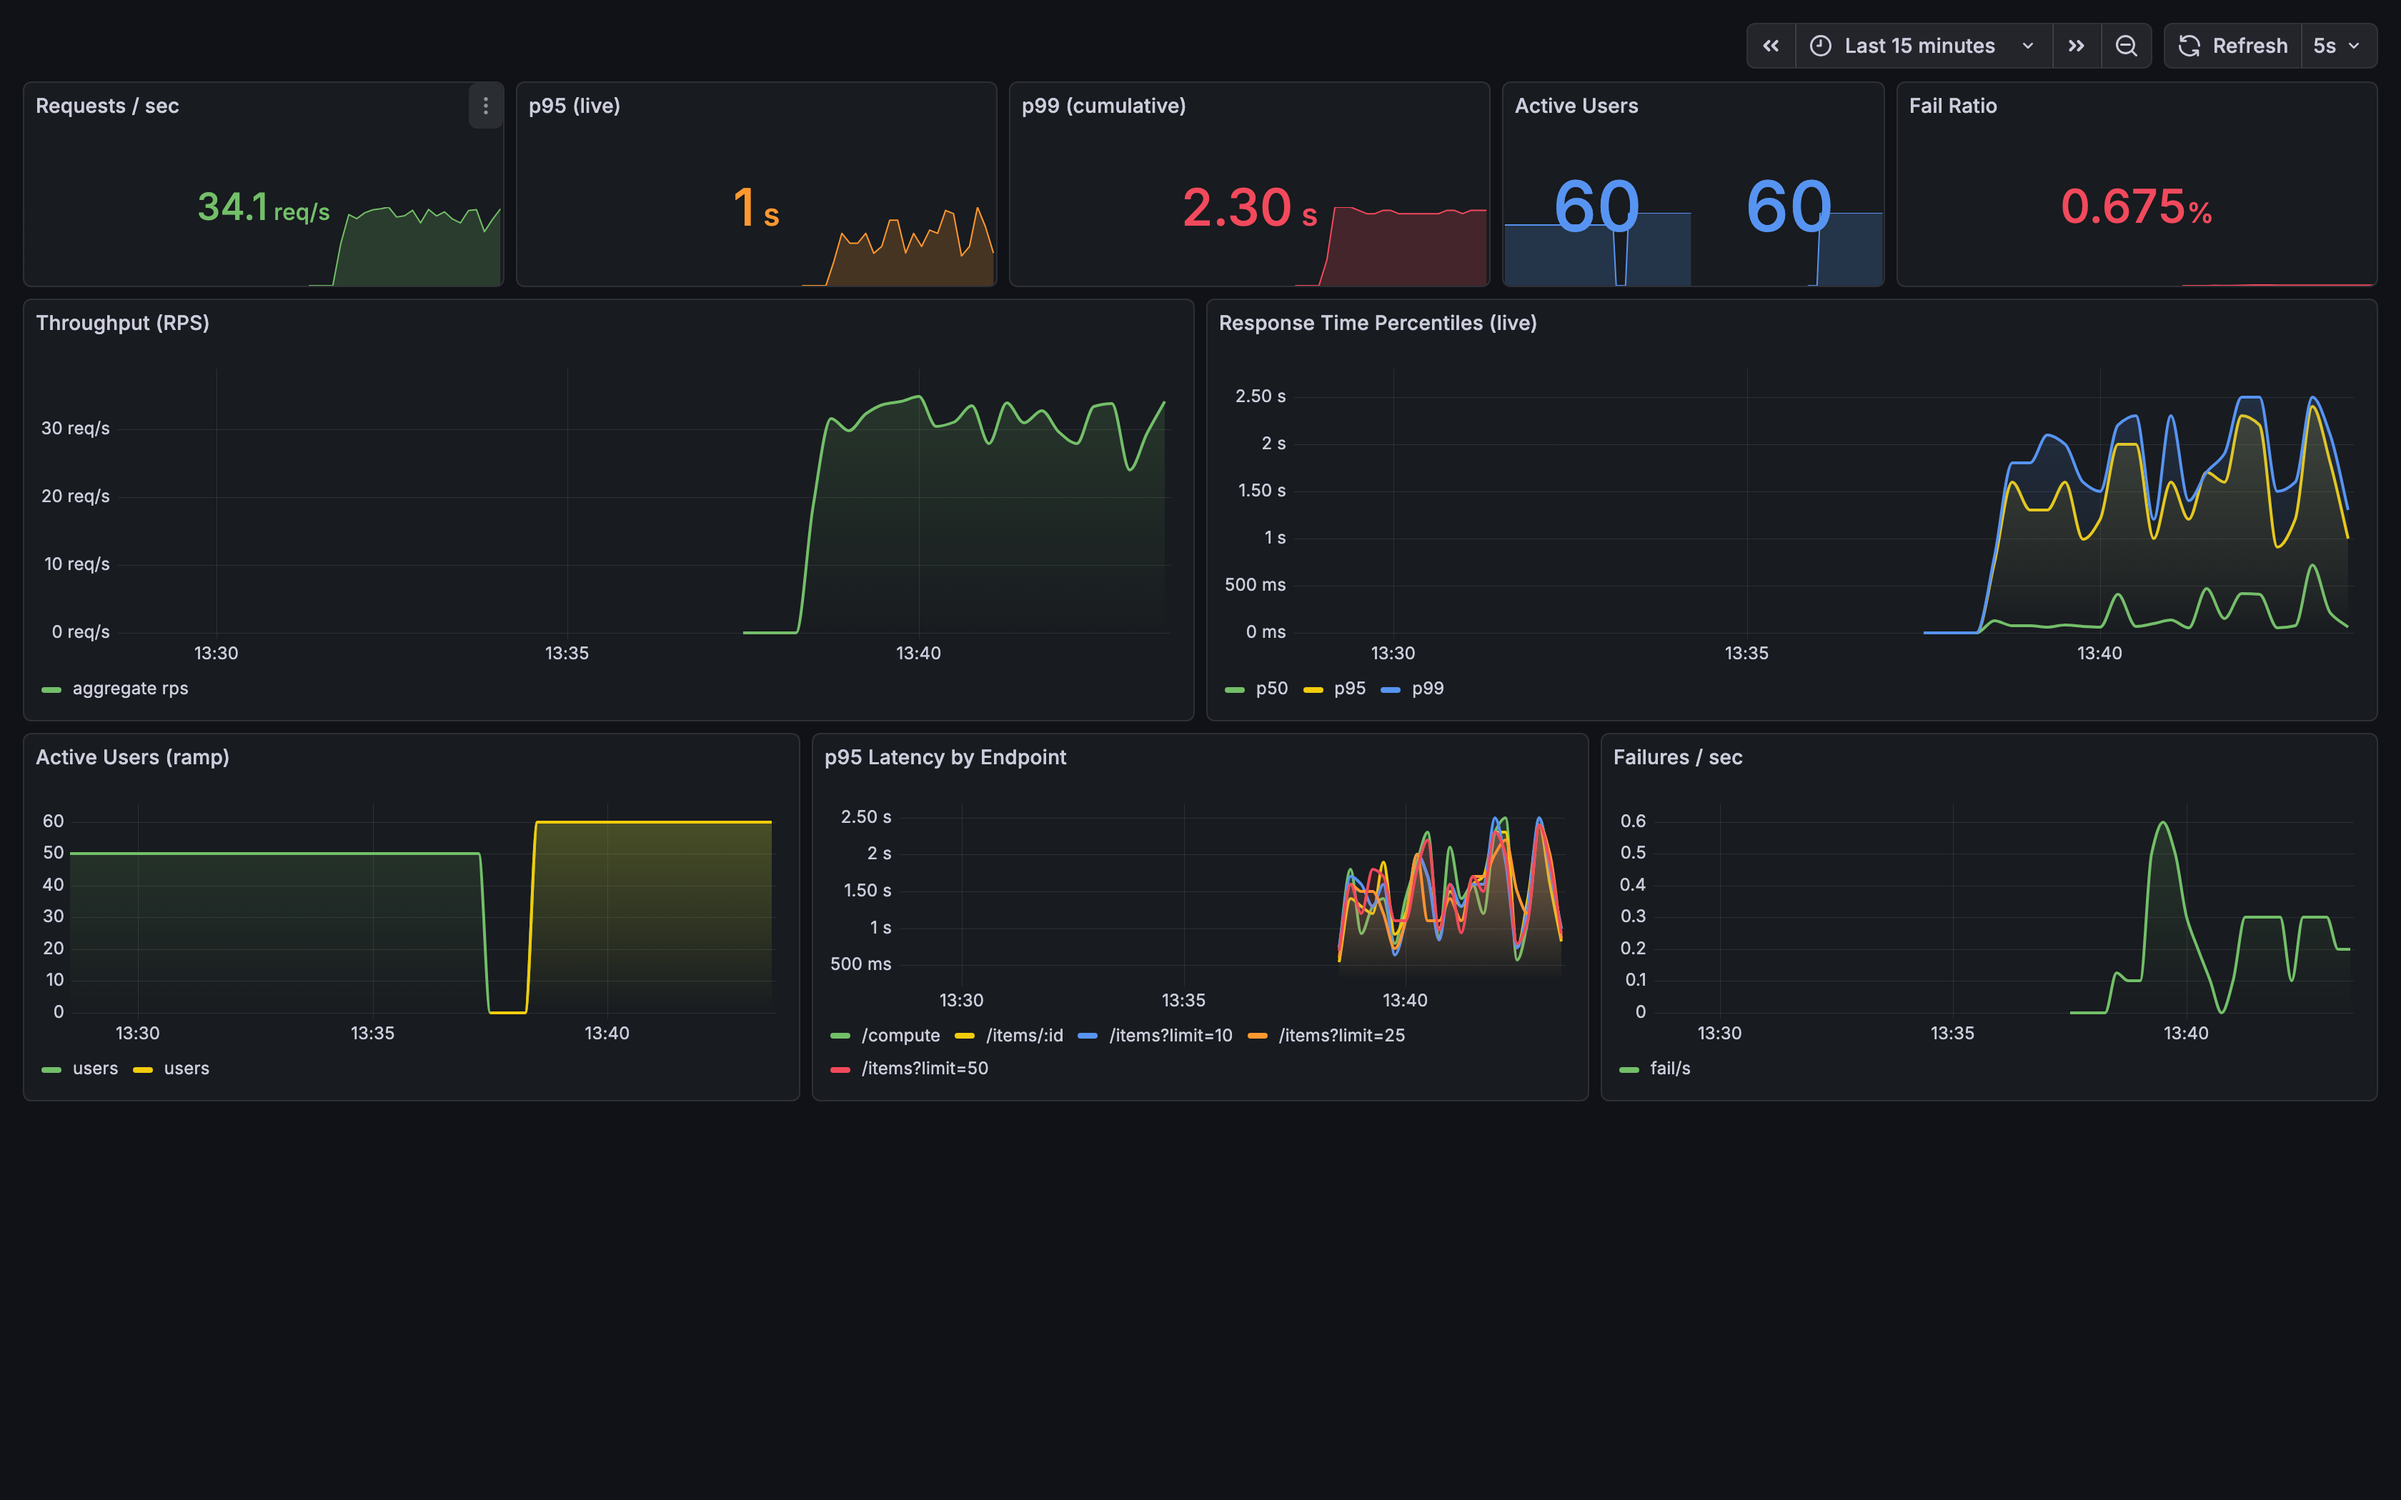
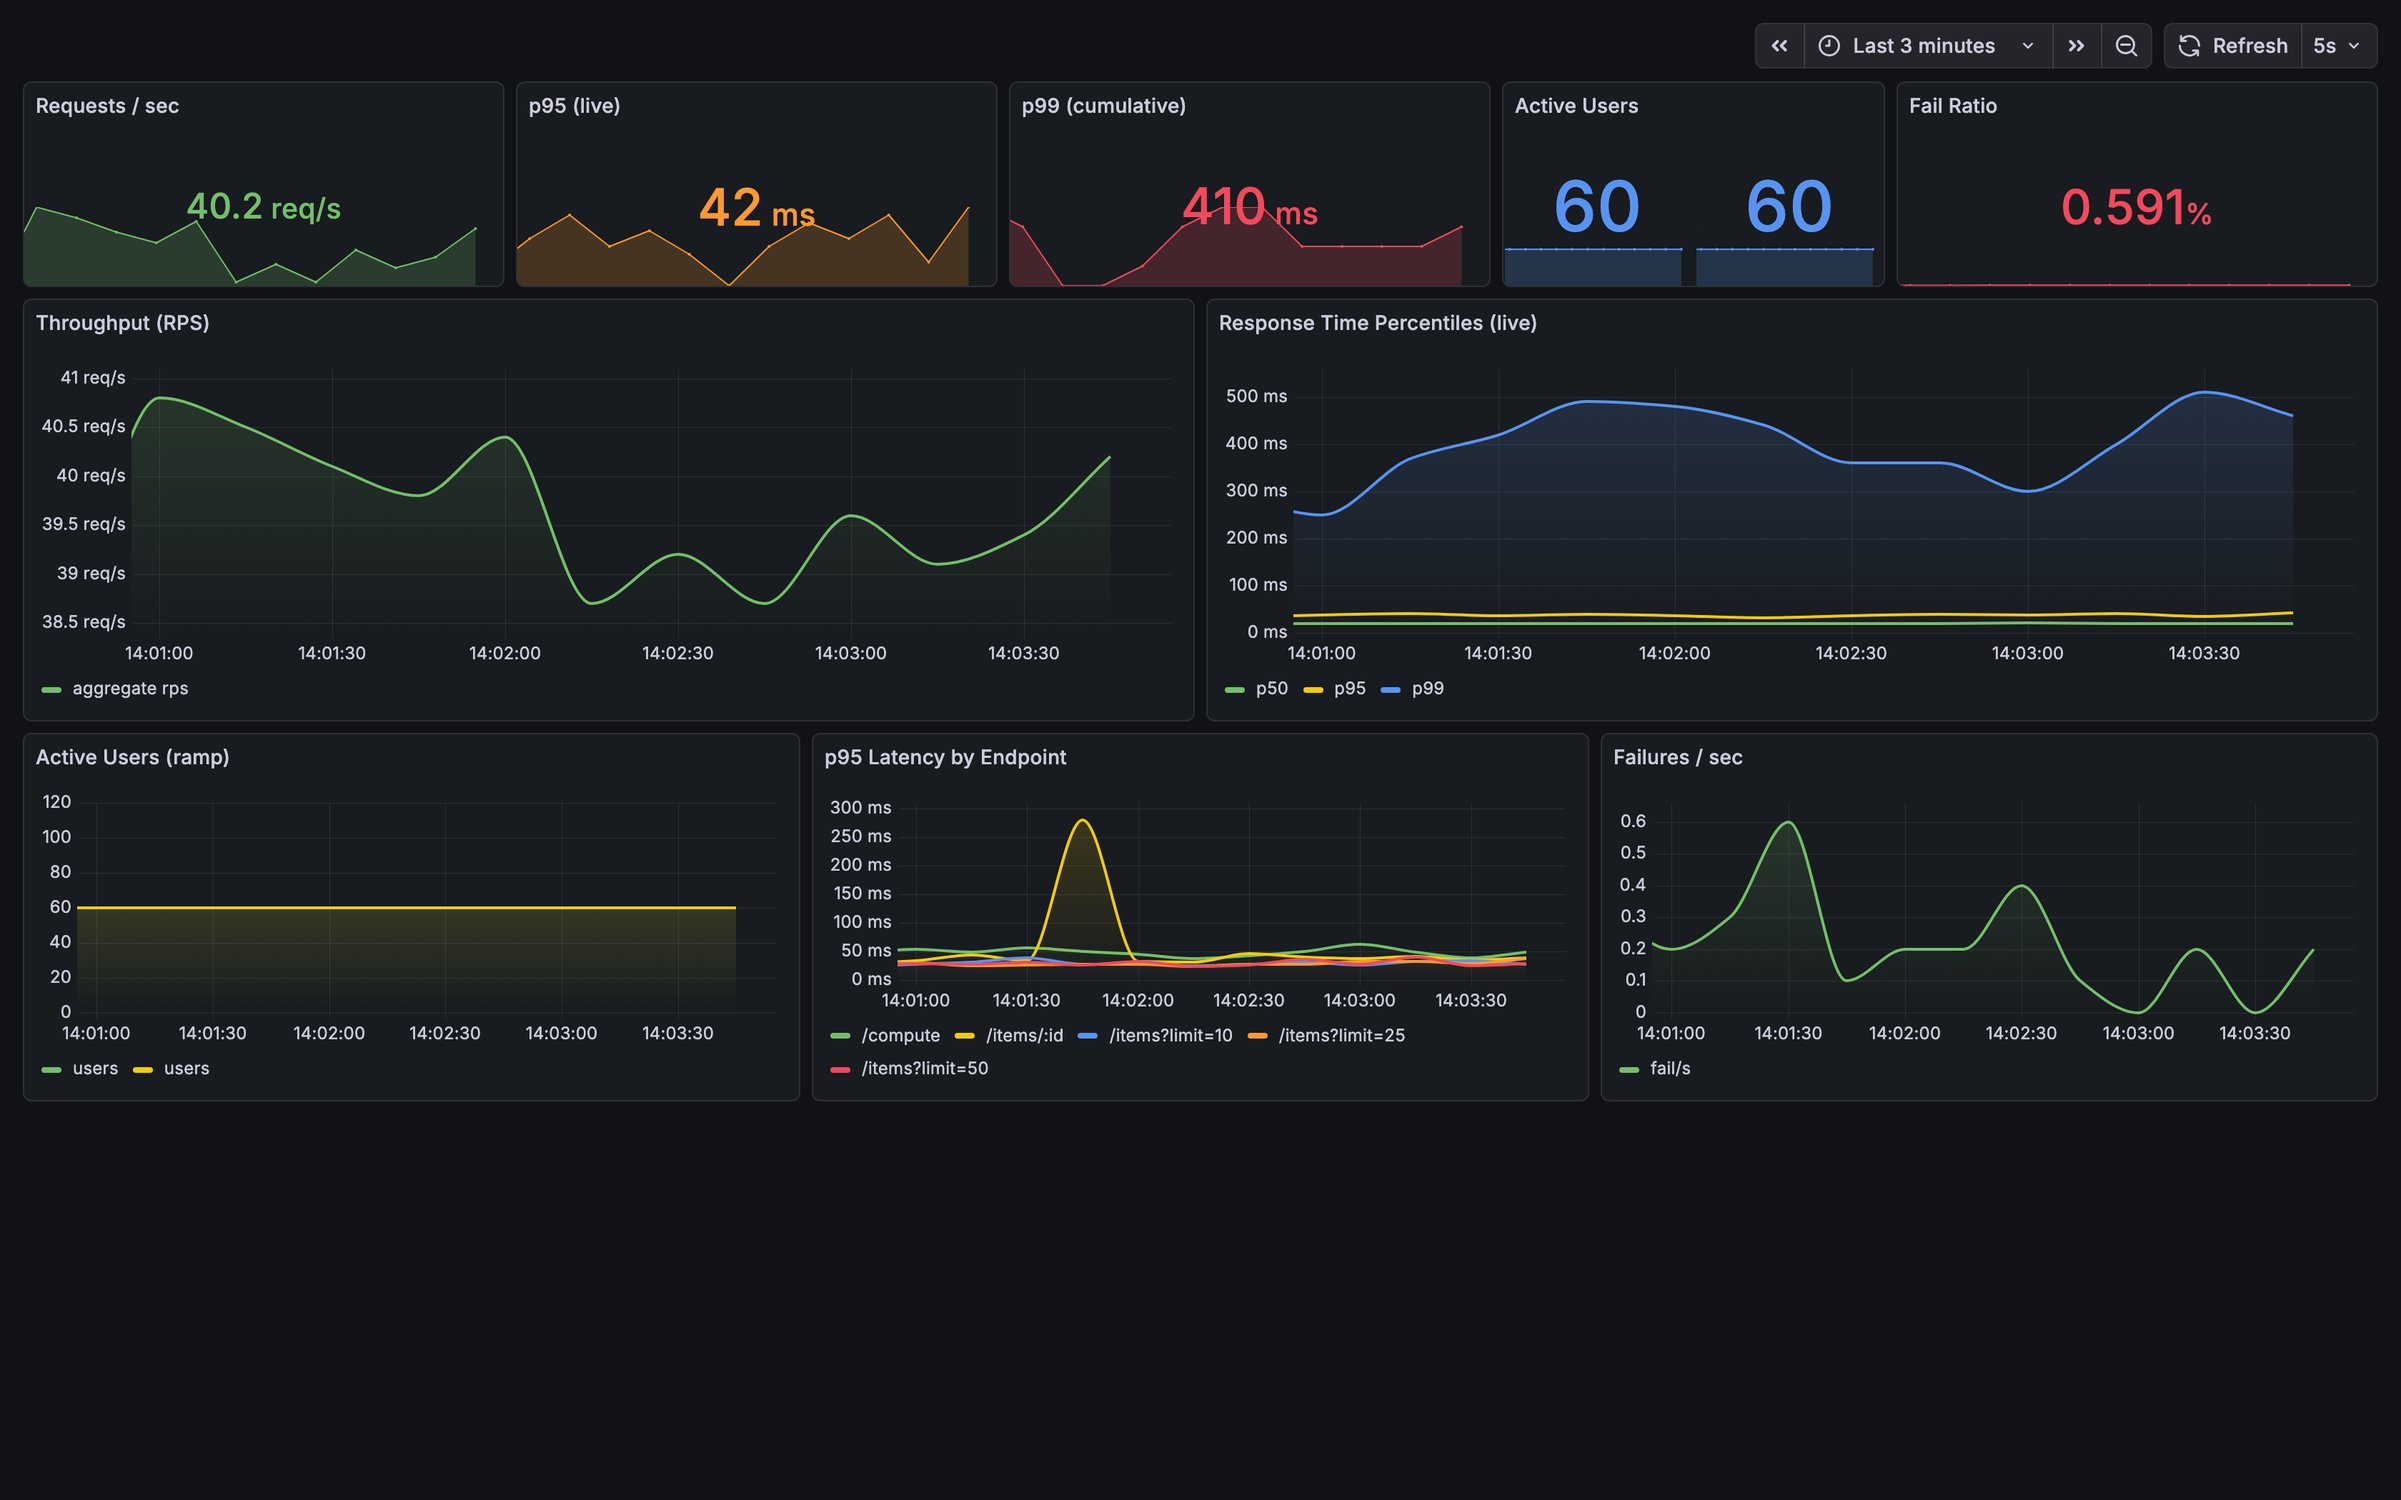
Fix event-loop-blocking latency injection and pin exporter image
The demo target injected latency in an async middleware via a blocking
time.sleep(), which froze uvicorn's event loop. Under concurrency this
serialized request processing and fabricated multi-second tail latency
unrelated to the configured model -- the "test that silently invalidates
results" this platform is meant to expose. Measured before/after on a
30-way concurrent probe of /items: p50 967ms -> 18ms, throughput 31 -> 108 rps.

- demo-target/app.py: inject latency with `await asyncio.sleep()` so the loop
  yields and requests run concurrently. Sync route handlers (threadpool) are
  unaffected.
- docker-compose.yml: pin locust_exporter by digest (was the only floating
  :latest tag) for reproducibility.
- README + screenshots: refresh with honest numbers (median ~19ms, p95 ~40ms,
  p99 ~410ms tracking the 2% injected tail).

diff --git a/demo-target/app.py b/demo-target/app.py
@@ -6,6 +6,7 @@ The service intentionally supports latency injection, tail behavior,
 error simulation, and optional authentication to model realistic
 production failure modes.
 """
+import asyncio
 import hashlib
 import os
 import random
@@ -70,14 +71,24 @@ def _sleep_ms(ms: int) -> None:
     time.sleep(ms / 1000.0)
 
 
-def _maybe_inject_latency() -> None:
-    # Inject baseline + jitter, with occasional tail amplification.
-    base = BASE_LATENCY_MS
-    jitter = random.randint(0, max(0, JITTER_LATENCY_MS))
-    _sleep_ms(base + jitter)
-
+def _latency_budget_ms() -> int:
+    # Baseline + jitter, with occasional tail amplification.
+    total = BASE_LATENCY_MS + random.randint(0, max(0, JITTER_LATENCY_MS))
     if random.random() < TAIL_PROB:
-        _sleep_ms(random.randint(TAIL_MIN_MS, TAIL_MAX_MS))
+        total += random.randint(TAIL_MIN_MS, TAIL_MAX_MS)
+    return total
+
+
+async def _maybe_inject_latency_async() -> None:
+    # MUST be awaited, not slept. This runs in the request middleware on the
+    # event loop; a blocking time.sleep() here would serialize every in-flight
+    # request and fabricate tail latency that has nothing to do with the
+    # configured model -- the exact "test that silently invalidates results"
+    # this platform exists to avoid. asyncio.sleep yields the loop so requests
+    # actually run concurrently.
+    ms = _latency_budget_ms()
+    if ms > 0:
+        await asyncio.sleep(ms / 1000.0)
 
 
 def _maybe_inject_errors() -> None:
@@ -105,7 +116,7 @@ async def request_middleware(request: Request, call_next):
     if request.url.path in ("/health", "/metrics"):
         return await call_next(request)
 
-    _maybe_inject_latency()
+    await _maybe_inject_latency_async()
     try:
         _maybe_inject_errors()
     except HTTPException as exc:

diff --git a/README.md b/README.md
@@ -11,8 +11,8 @@
 ## Screenshots
 
 A `baseline` run (60 users) against the bundled demo target. Note the visible
-tail: p95 ≈ 1.7s and p99 ≈ 2.3s while the median stays near 100ms — exactly the
-percentile spread that averages would hide.
+tail: median ≈ 19ms and p95 ≈ 40ms, while p99 ≈ 410ms from the 2% injected
+tail — exactly the percentile spread that averages would hide.
 
 ### Grafana — load test overview
 
